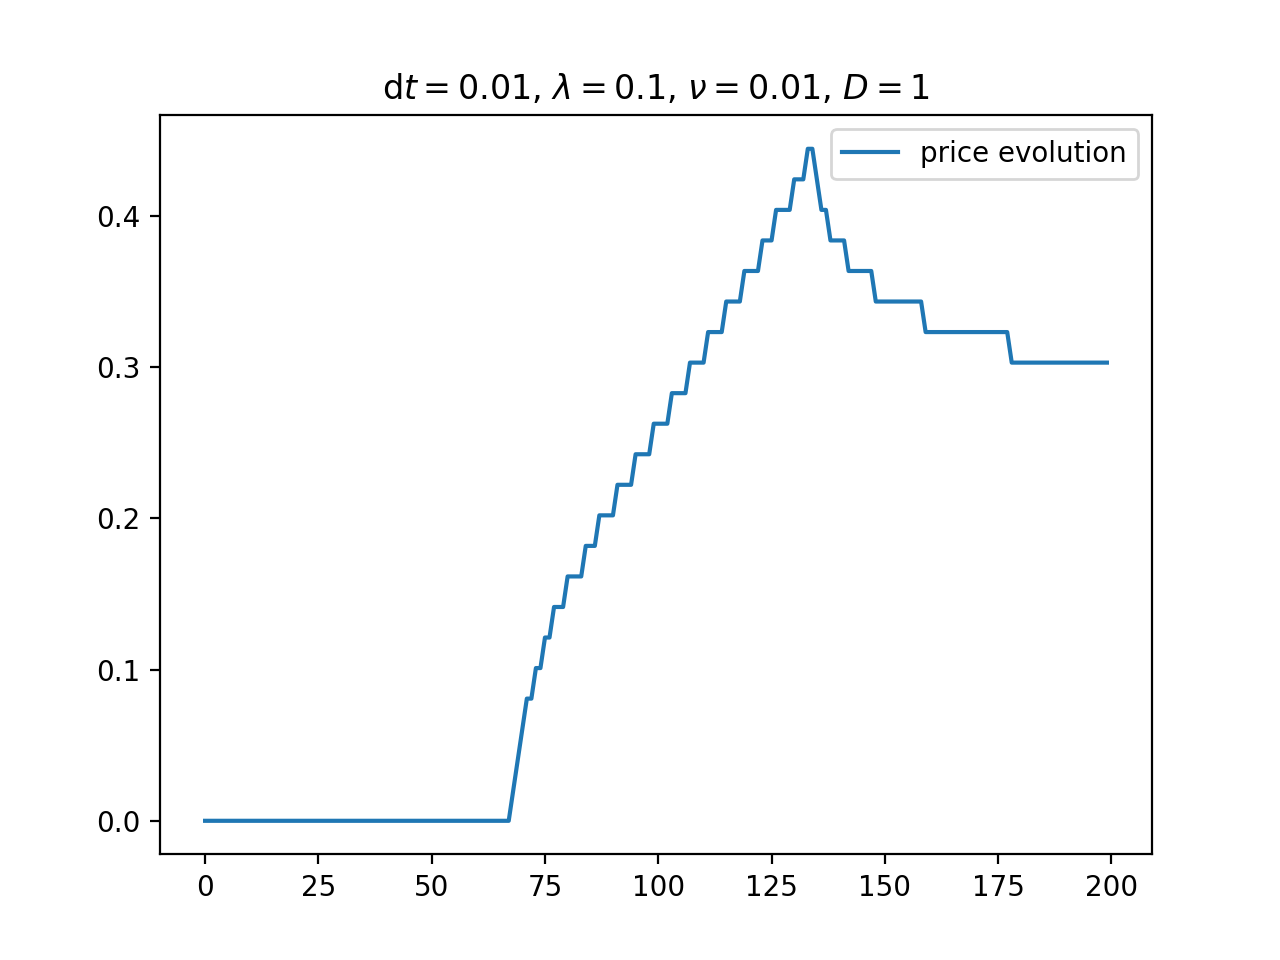
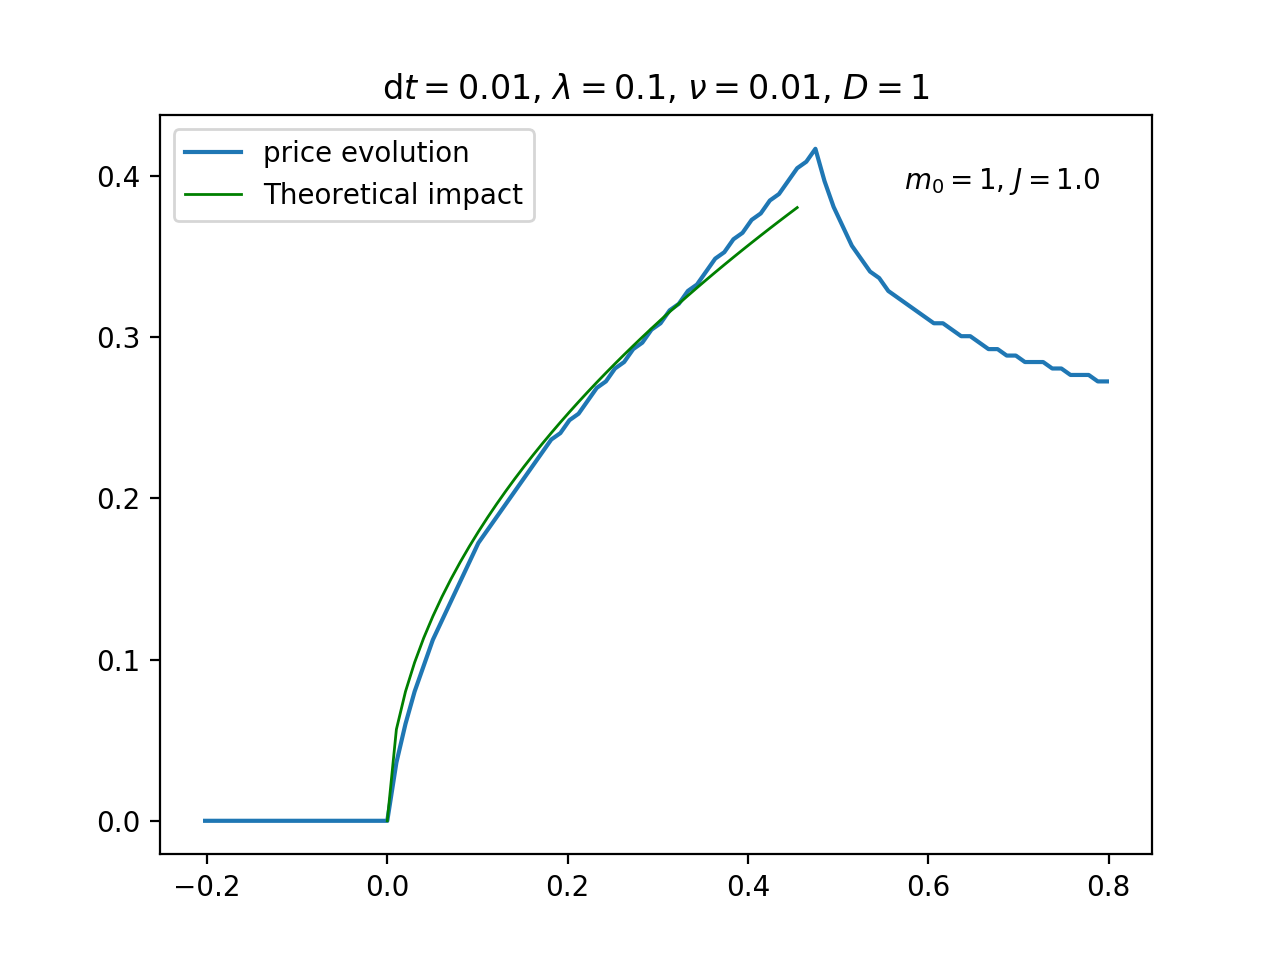
add simulation class

diff --git a/Python/simulation.py b/Python/simulation.py
@@ -1,66 +1,86 @@
-import matplotlib.pyplot as plt
 import numpy as np
+import matplotlib.pyplot as plt
 
 from order_book import OrderBook
 
-# Model parameters
-T = 1
-Nt = 20
-dt = T/float(Nt)
-lambd = 1
-nu = 1e-2
-D = 1
-J = lambd * np.sqrt(D/float(nu))
-book = OrderBook(dt, D=D, lambd=lambd, nu=nu, resolution=100)
 
-# Price timeseries
-prices = np.zeros(Nt)
-time_interval = np.linspace(0, T, num=Nt)
+class Simulation:
 
-# Metaorder intensity
-m0 = 5
-n_start, n_end = Nt//5, 2*Nt//3
-A_low = m0/(J*np.sqrt(np.pi))
-A_high = np.sqrt(2*m0/J)
+    def __init__(self, book_parameters, T, Nt, m0, plot=False):
 
-# Simulation
-for n in range(Nt):
+        # Order book
+        self.book_parameters = book_parameters
+        self.book = OrderBook(**book_parameters)
+        self.J = self.book.J
 
-    # Plot evolution
-    ymin, ymax = -1, 1
-    plt.ylim((ymin, ymax))
-    plt.plot(book.X, book.density, label='order density', linewidth=1)
-    plt.title(f'iteration {n}')
+        # Time evolution
+        self.Nt = Nt
+        self.prices = np.zeros(Nt)
+        self.time_interval, self.tstep = np.linspace(0, T, num=Nt, retstep=True)
+        self.n_start = Nt//5
+        self.n_end = 2 * Nt//3
+        self.t_start = self.n_start * self.tstep
 
-    # Display best_ask/bid prices
-    plt.vlines(book.price, ymin, ymax, label='price', color='red', linewidth=1)
-    plt.hlines(0, -1, 1, color='black', linewidth=0.5, linestyle='dashed')
-    plt.vlines(book.best_ask, ymin, ymax, label='best ask', color='blue')
-    plt.vlines(book.best_bid, ymin, ymax, label='best bid', color='yellow')
-    plt.vlines(0, 0, m0*dt/book.dx, label='traded quantity', color='cyan')
+        # Metaorder
+        self.m0 = m0
 
-    plt.legend()
-    plt.pause(0.001)
+        # Theoretical constants
+        self.A_low = m0/(self.J*np.sqrt(np.pi))
+        self.A_high = np.sqrt(2*m0/self.J)
 
-    # Add a metaorder
-    book.mt = m0 if (n >= n_start and n <= n_end) else 0
-    book.timestep()
-    plt.cla()
+        # Plot
+        self.plot = plot
 
-    prices[n] = book.price
+    def run(self):
 
-plt.close()
+        self.growth_th = self.A_low * \
+            np.sqrt(self.book.D *
+                    self.time_interval[0:self.n_end-self.n_start])
 
-p_th = A_low*np.sqrt(D*time_interval[0:n_end-n_start])
-plt.plot(time_interval[n_start:n_end],
-         p_th, label='Theoretical impact', lw=1, color='green')
+        for n in range(self.Nt):
 
+            # Update metaorder intensity
+            mt = self.m0 if (n >= self.n_start and n <= self.n_end) else 0
 
-# Plot price evoution
-# plt.title(r'Price evolution with $\textrm{dt} = {{{}}}$'.format(dt))
-# plt.title(r'd$t={{{0}}}$, $\lambda={{{1}}}$, $\nu={{{2}}}$, $D={{{3}}}$'.format(
-#     dt, lambd, nu, D))
-plt.title(r'$m_0={{{0}}}$, $J={{{1}}}$'.format(m0, round(J, 2)))
-plt.plot(time_interval, prices, label='price evolution')
-plt.legend()
-plt.show()
+            self.book.mt = 1
+            self.book.mt = mt
+            self.book.timestep()
+            self.prices[n] = self.book.price
+
+            if self.plot:
+                ymin, ymax = -1, 1
+                plt.ylim((ymin, ymax))
+                plt.plot(self.book.X, self.book.density,
+                         label='order density', linewidth=1)
+                plt.legend()
+                plt.pause(0.001)
+                plt.cla()
+
+    def compute_growth_MSE(self, ord=2):
+        self.growth_mean_error = np.linalg.norm(
+            self.growth_th - self.prices[self.n_start:self.n_end], ord=ord) / np.sqrt(self.n_end- self.n_start)
+        return self.growth_mean_error
+
+    def plot_vs_time(self, symlog=True):
+
+        ax = plt.gca()
+
+        plt.plot(self.time_interval-self.t_start, self.prices, label='price evolution')
+        plt.plot(self.time_interval[self.n_start:self.n_end]-self.t_start,
+         self.growth_th, label='theoretical impact', lw=1, color='green')
+
+        if symlog:
+            plt.yscale('symlog', linthreshy = 1e-1)
+            plt.xscale('symlog', linthreshx = self.tstep)
+
+        # Titles
+
+        title = r'd$t={{{dt}}}$, $\lambda={{{lambd}}}$, $\nu={{{nu}}}$, $D={{{D}}}$'.format(
+            **self.book_parameters)
+        text = r'$m_0={{{0}}}$, $J={{{1}}}$'.format(self.m0, round(self.J, 2))
+
+        plt.legend(loc='lower right')
+        plt.title(title)
+        plt.text(0.01,0.92,text, transform=ax.transAxes)
+
+        plt.show()

diff --git a/Python/run_simulation.py b/Python/run_simulation.py
@@ -1,0 +1,26 @@
+import matplotlib.pyplot as plt
+import numpy as np
+
+from order_book import OrderBook
+from simulation import Simulation
+
+# Simulation parameters
+T = 1
+Nt = 100
+
+# Model parameters
+book_parameters = {
+    'dt': T/float(Nt),
+    'lambd': 1e-1,
+    'nu': 1e-2,
+    'D': 1,
+    'Nx': 500
+    }
+
+# Metaorder
+m0 = 1
+
+# Run
+simulation = Simulation(book_parameters, T, Nt, m0)
+simulation.run()
+simulation.plot_vs_time()

diff --git a/Simulation.md b/Simulation.md
@@ -7,18 +7,20 @@
 ## Structure of the code
 
 An order book is represented by an instance of class `OrderBook` from `order_book.py`.
+A simulation is represented by an instance of class `Simulation` from `simulation.py`.
 Numerical scheme functions for diffusion equation are imported from `diffusion_schemes.py`.
-A script setting parameters, running and plotting a simulation is provided in `simulation.py`.
+A script setting parameters, running and plotting a simulation is provided in `run_simulation.py`.
 
 
 ## Run a simulation
-Set parameters in `run.py` then run
+Set parameters in `run_simulation.py` then run
 
 ```bash
 cd Python
-python simulation.py
+python run_simulation.py
 ```
 ## Output
 
 ![Density profile](demo/density.png)
 ![Price evolution](demo/price.png)
+![Price evolution](demo/price_symlog.png)
